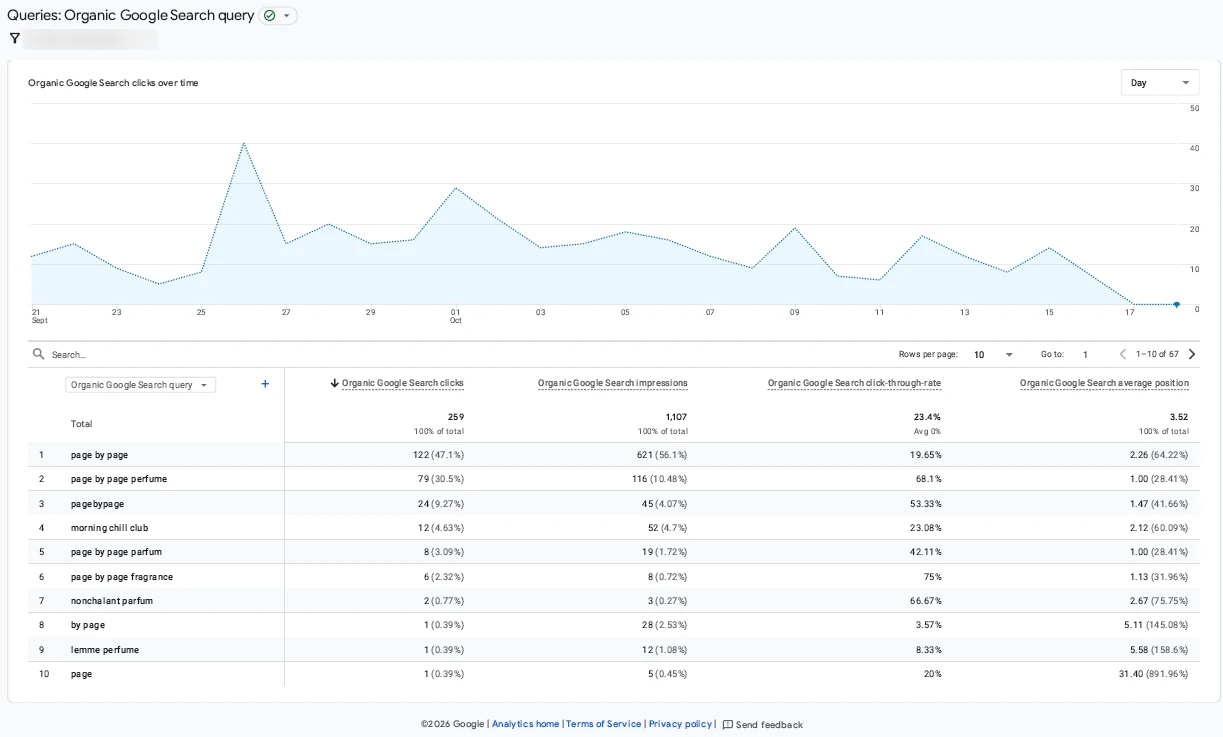
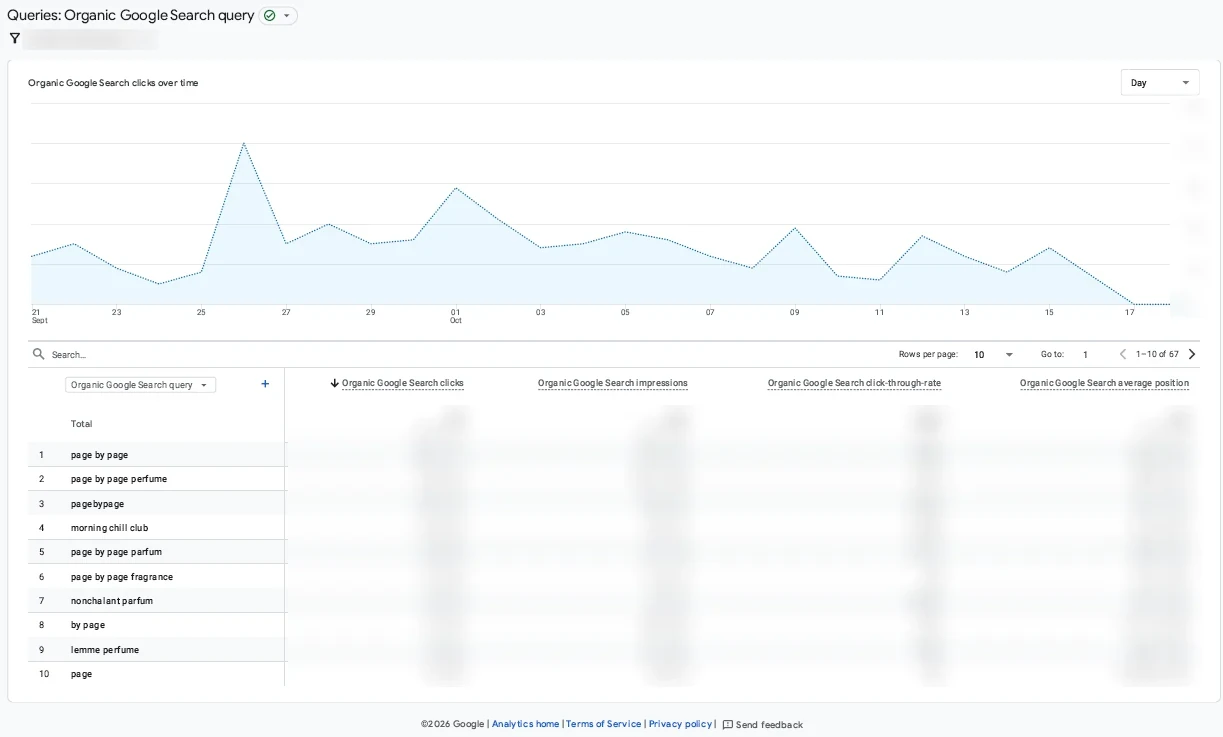
Hide confidential figures on the Data Analysis page
- Blur every figure in the GA4 and Looker screenshots except active
  users, total LPV and ROAS; Data page uses its own blurred Looker
  copies so the Meta Ads page keeps the originals
- KPI cards now show only active users, total LPV and ROAS
- Insight copy rewritten without the hidden numbers

diff --git a/src/pages/projects/DataAnalysisProject.tsx b/src/pages/projects/DataAnalysisProject.tsx
@@ -58,41 +58,41 @@ const DATA_PROJECTS = [
 ];
 
 
-// Page by Page website analytics, GA4 range 21 Sep – 18 Oct 2026. Revenue is kept confidential.
+// Page by Page website analytics, GA4 range 21 Sep – 18 Oct 2026. Only active users, total LPV and ROAS are shown; other figures stay confidential.
 const GA4_KPIS = [
   { label: "Active users", value: "18.4k" },
-  { label: "Page views", value: "23.9k" },
-  { label: "Paid social sessions", value: "6k" },
-  { label: "Organic search CTR", value: "23.4%" }
+  { label: "Total landing page views", value: "11,282" },
+  { label: "Retargeting ROAS", value: "1.8x" },
+  { label: "Data stack", value: "GA4 · Looker", small: true }
 ];
 
 const GA4_INSIGHTS = [
   {
     icon: <LineChart size={18} />,
     kicker: "Campaign impact",
-    title: "One product page took 59% of all views",
-    body: "The Nonchalant product page drew 14.2k of 23.9k views, peaking from 5 to 11 October while the Nonchalant sales ads were running. Paid social brought 6k sessions, the second-largest source after direct."
+    title: "One product page drew most of the views",
+    body: "The Nonchalant product page took the majority of all page views, peaking in the week the Nonchalant sales ads were running. Paid social was the second-largest traffic source after direct."
   },
   {
     icon: <Target size={18} />,
     kicker: "Recommendation",
     title: "Clicks arrive, but they don't stay",
-    body: "Average engagement on the Nonchalant product page was about 1 second, compared with 22 seconds on the homepage and 1m 49s on the Meet Your Alter Ego page. The next test: send part of the traffic to richer pages and compare checkouts."
+    body: "Engagement time on the Nonchalant product page was far shorter than on the homepage or the Meet Your Alter Ego page. The next test: send part of the traffic to richer pages and compare checkouts."
   },
   {
     icon: <Search size={18} />,
     kicker: "Search demand",
     title: "Ads are building brand search",
-    body: "Brand queries such as “page by page” make up most of the 259 organic clicks, at an average position of 3.5. Product names like “morning chill club” are now searched and rank in the top three."
+    body: "Brand queries such as “page by page” make up most of the organic clicks, and product names like “morning chill club” are now searched and rank near the top of Google."
   }
 ];
 
 const ANALYTICS_EVIDENCE: EvidenceItem[] = [
-  { label: "GA4 · Pages", src: "/data/pagebypage-ga4-pages-and-screens.webp", width: 1151, height: 742, alt: "GA4 pages and screens report showing views, users and engagement time per page; revenue blurred", caption: "GA4 pages and screens: which pages the campaigns actually drove people to. Revenue blurred." },
-  { label: "GA4 · Search queries", src: "/data/pagebypage-ga4-organic-search-queries.webp", width: 1223, height: 737, alt: "GA4 organic Google Search queries report with clicks, impressions, CTR and average position", caption: "Organic Google Search queries in GA4: brand demand growing alongside the ads." },
-  { label: "GA4 · Acquisition", src: "/data/pagebypage-ga4-reports-snapshot.webp", width: 1412, height: 810, alt: "GA4 reports snapshot with users, sessions and top traffic sources; revenue blurred", caption: "GA4 reports snapshot: users, sessions and top traffic sources. Revenue blurred." },
-  { label: "Looker · Traffic", src: "/meta/pagebypage-looker-traffic-dashboard.webp", width: 1007, height: 655, alt: "Looker Studio traffic dashboard with landing page views and cost per landing page view per creative", caption: "Looker Studio dashboard I built for the traffic campaign." },
-  { label: "Looker · Sales", src: "/meta/pagebypage-looker-sales-dashboard.webp", width: 1007, height: 641, alt: "Looker Studio sales dashboard with spend, purchases, purchase value and ROAS per creative", caption: "Looker Studio dashboard I built for the sales campaign, from spend to ROAS." },
+  { label: "GA4 · Pages", src: "/data/pagebypage-ga4-pages-and-screens.webp", width: 1151, height: 742, alt: "GA4 pages and screens report showing views, users and engagement time per page; figures blurred", caption: "GA4 pages and screens: which pages the campaigns drove people to. Figures blurred except active users." },
+  { label: "GA4 · Search queries", src: "/data/pagebypage-ga4-organic-search-queries.webp", width: 1223, height: 737, alt: "GA4 organic Google Search queries report with clicks, impressions, CTR and average position", caption: "Organic Google Search queries in GA4: brand demand growing alongside the ads. Figures blurred." },
+  { label: "GA4 · Acquisition", src: "/data/pagebypage-ga4-reports-snapshot.webp", width: 1412, height: 810, alt: "GA4 reports snapshot with users, sessions and top traffic sources; figures blurred", caption: "GA4 reports snapshot: users and top traffic sources. Figures blurred except active users." },
+  { label: "Looker · Traffic", src: "/data/pagebypage-looker-traffic-dashboard-blurred.webp", width: 1007, height: 655, alt: "Looker Studio traffic dashboard with landing page views and cost per landing page view per creative", caption: "Looker Studio dashboard I built for the traffic campaign. Figures blurred except total LPV." },
+  { label: "Looker · Sales", src: "/data/pagebypage-looker-sales-dashboard-blurred.webp", width: 1007, height: 641, alt: "Looker Studio sales dashboard with spend, purchases, purchase value and ROAS per creative", caption: "Looker Studio dashboard I built for the sales campaign. Figures blurred except ROAS." },
   { label: "Apps Script · Sheets", src: "/meta/pagebypage-sheets-apps-script.webp", width: 1600, height: 821, alt: "Google Sheets filled daily by Apps Script with Meta ad-level data; IDs blurred", caption: "The data layer: Google Sheets filled daily by Apps Script. IDs blurred." }
 ];
 
@@ -134,7 +134,7 @@ export default function DataAnalysisProject() {
             <div className="grid grid-cols-2 gap-3">
               {GA4_KPIS.map((kpi) => (
                 <div key={kpi.label} data-reveal className={`p-4 md:p-5 ${card}`}>
-                  <div className="text-2xl md:text-3xl font-black tracking-tighter">{kpi.value}</div>
+                  <div className={`${kpi.small ? 'text-xl md:text-2xl' : 'text-2xl md:text-3xl'} font-black tracking-tighter`}>{kpi.value}</div>
                   <div className="text-[10px] uppercase text-white/40 font-bold tracking-widest mt-1">{kpi.label}</div>
                 </div>
               ))}
